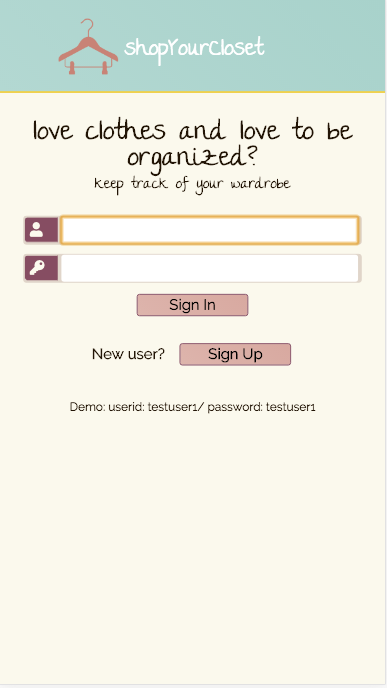
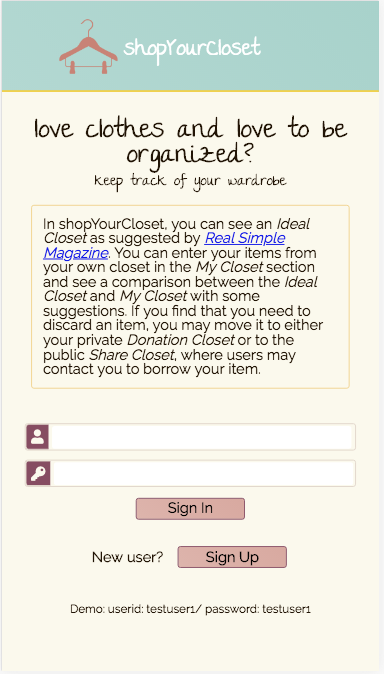
added msg on homepage w/css and new screen sh

diff --git a/public/utilities/render.module.js b/public/utilities/render.module.js
@@ -101,7 +101,11 @@ function renderLoginForm() {
                     <div id="title-verbage">
                         <h2>love clothes and love to be organized?</h2>
                         <h4>keep track of your wardrobe</h4>
-                        <div id="msgs-reg"></div>
+                        <p id="homepage-subhead">In shopYourCloset, you can see an <em>Ideal Closet</em> as suggested by <a href="https://www.realsimple.com/"><em>Real Simple Magazine</em></a>.  You can enter your items from 
+                        your own closet in the <em>My Closet</em> section and see a comparison between the <em>Ideal Closet</em> and <em>My Closet</em> with some suggestions.  If you find that you 
+                        need to discard an item, you may move it to either your private <em>Donation Closet</em> or to the public <em>Share Closet</em>, where users may
+                        contact you to borrow your item.</h4>
+                        <div id="msgs-reg"></p>
                     </div>
                     <div class="reg-login">
                         <form id="form-login" class="form-reg-login">

diff --git a/public/css/index.css b/public/css/index.css
@@ -201,6 +201,14 @@ button:hover {
     font-size: 1.2rem;
 }
 
+#homepage-subhead {
+    text-align:left;
+    padding:12px;
+    margin:12px;
+    border:1px solid #F2D387;
+    border-radius:3px;
+}
+
 #btn-sign-me-up {
     margin-top: 15px;
 }
@@ -293,7 +301,7 @@ button:hover {
 #GET-username,
 #GET-password {
     border:none;
-    width:92%;
+    width:91%;
     display:inline-block;
 }
 
@@ -426,7 +434,7 @@ button:hover {
     border: 1px solid #874C62;
     background-image: linear-gradient(45deg, #deb5ab 0%,#d9aa9f 100%);
     padding:3px 20px 3px 20px;
-    border-radius: 5px;
+    border-radius: 3px;
     width:100%;
     margin: 0 auto;
     
